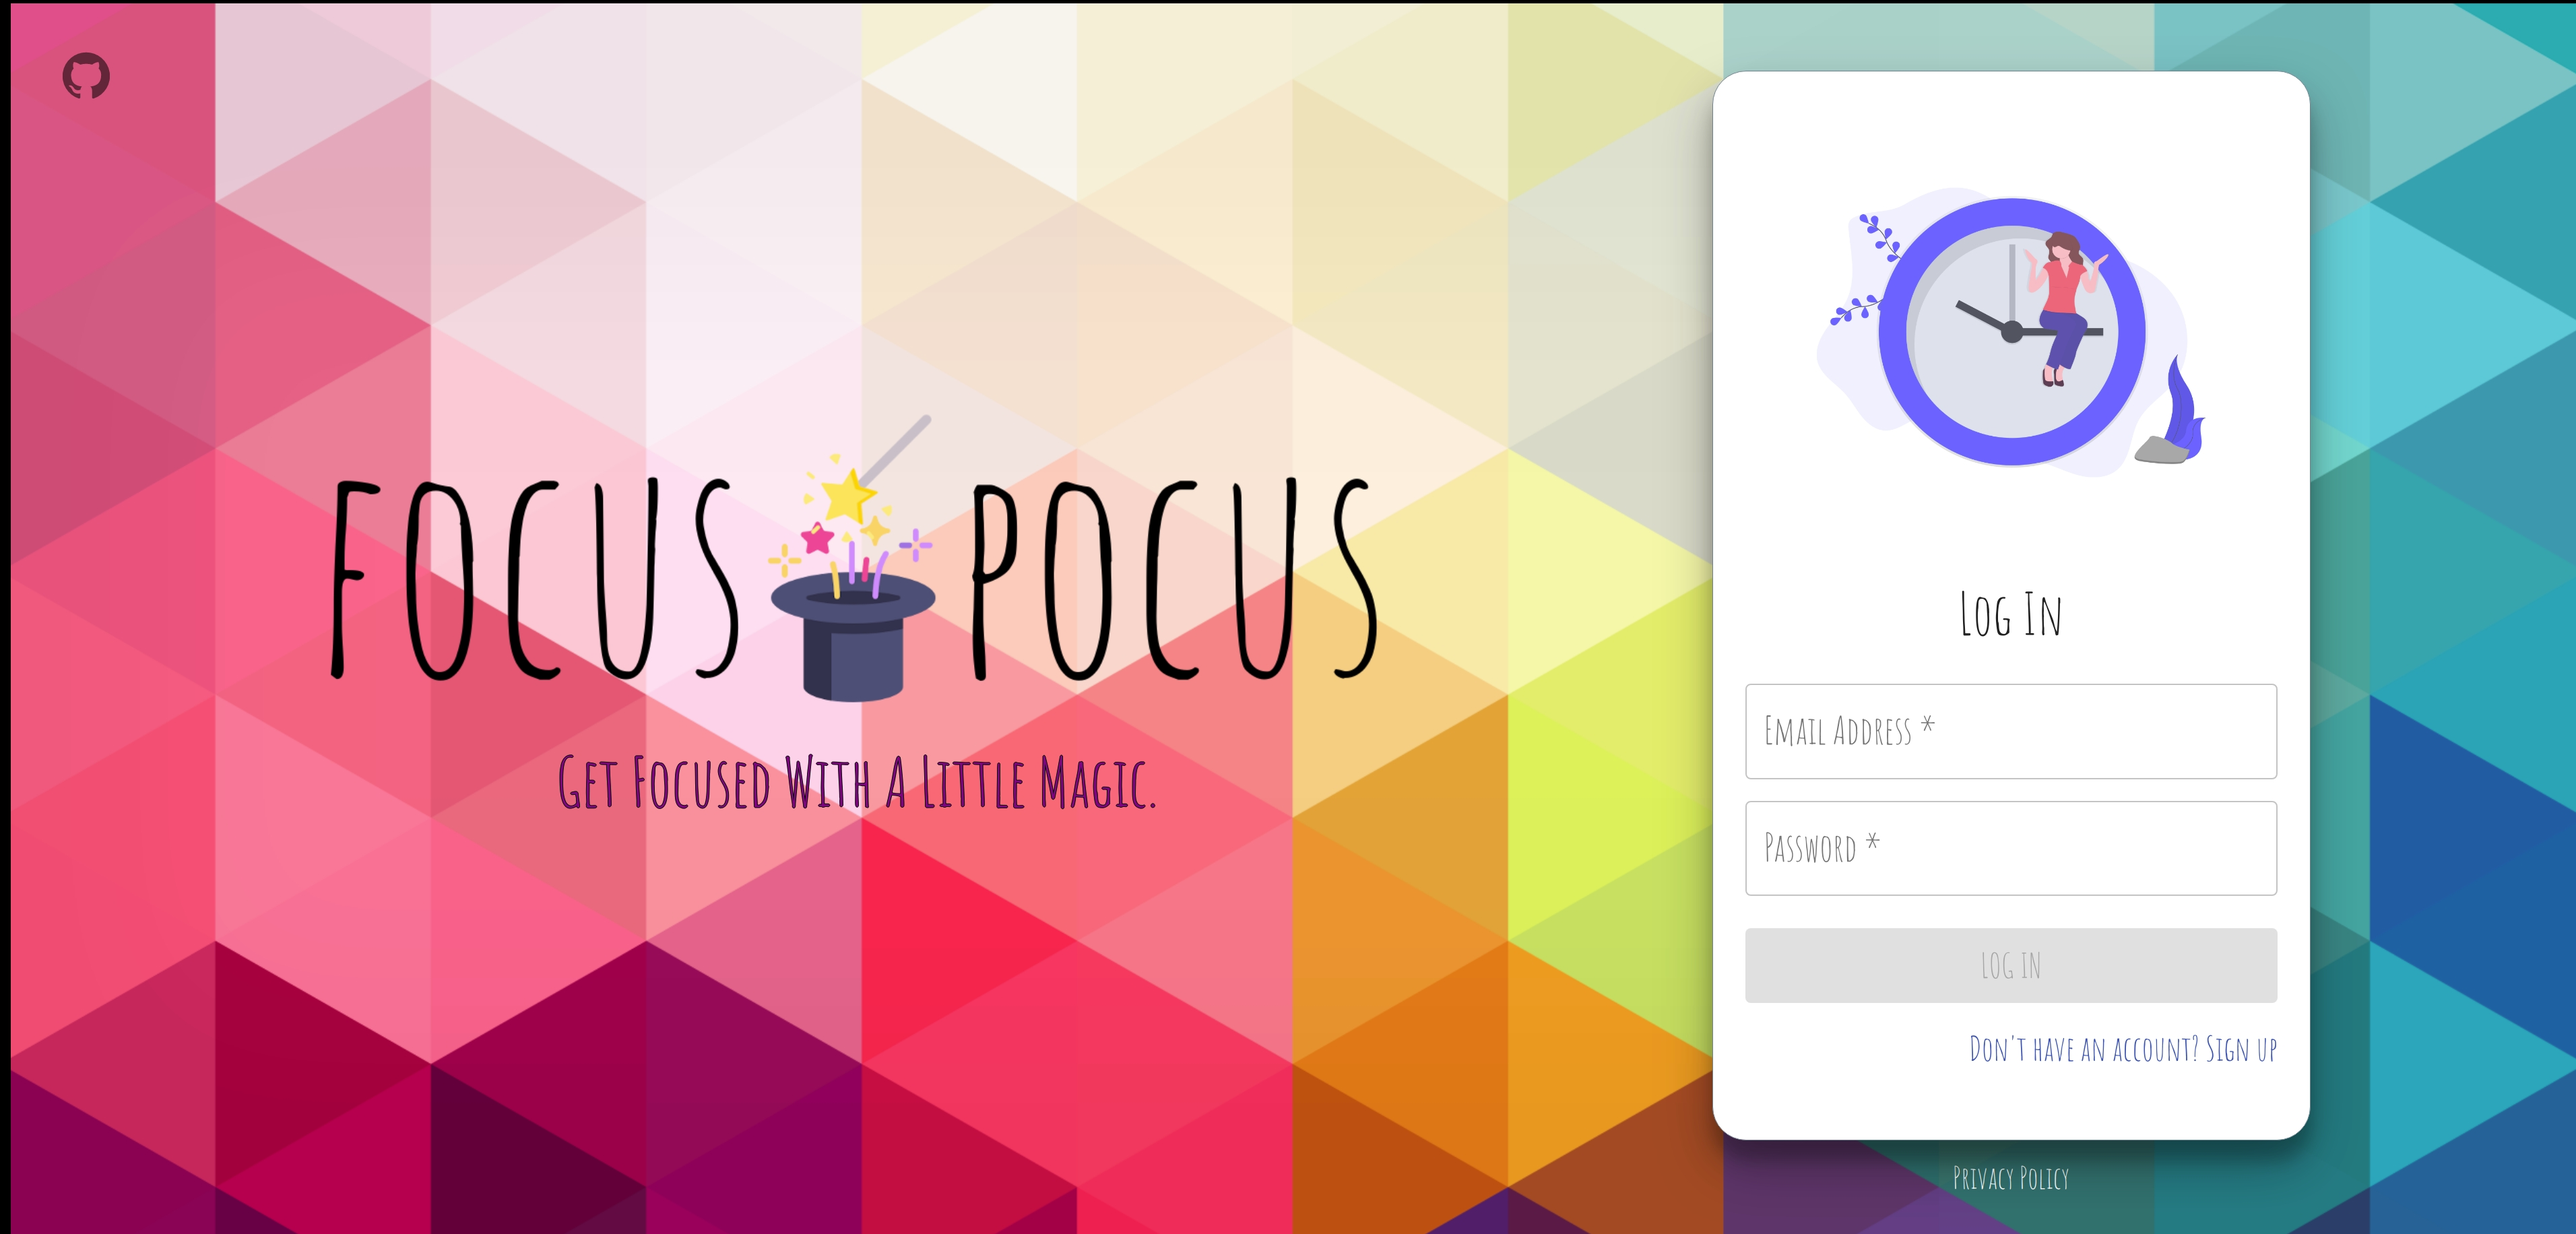
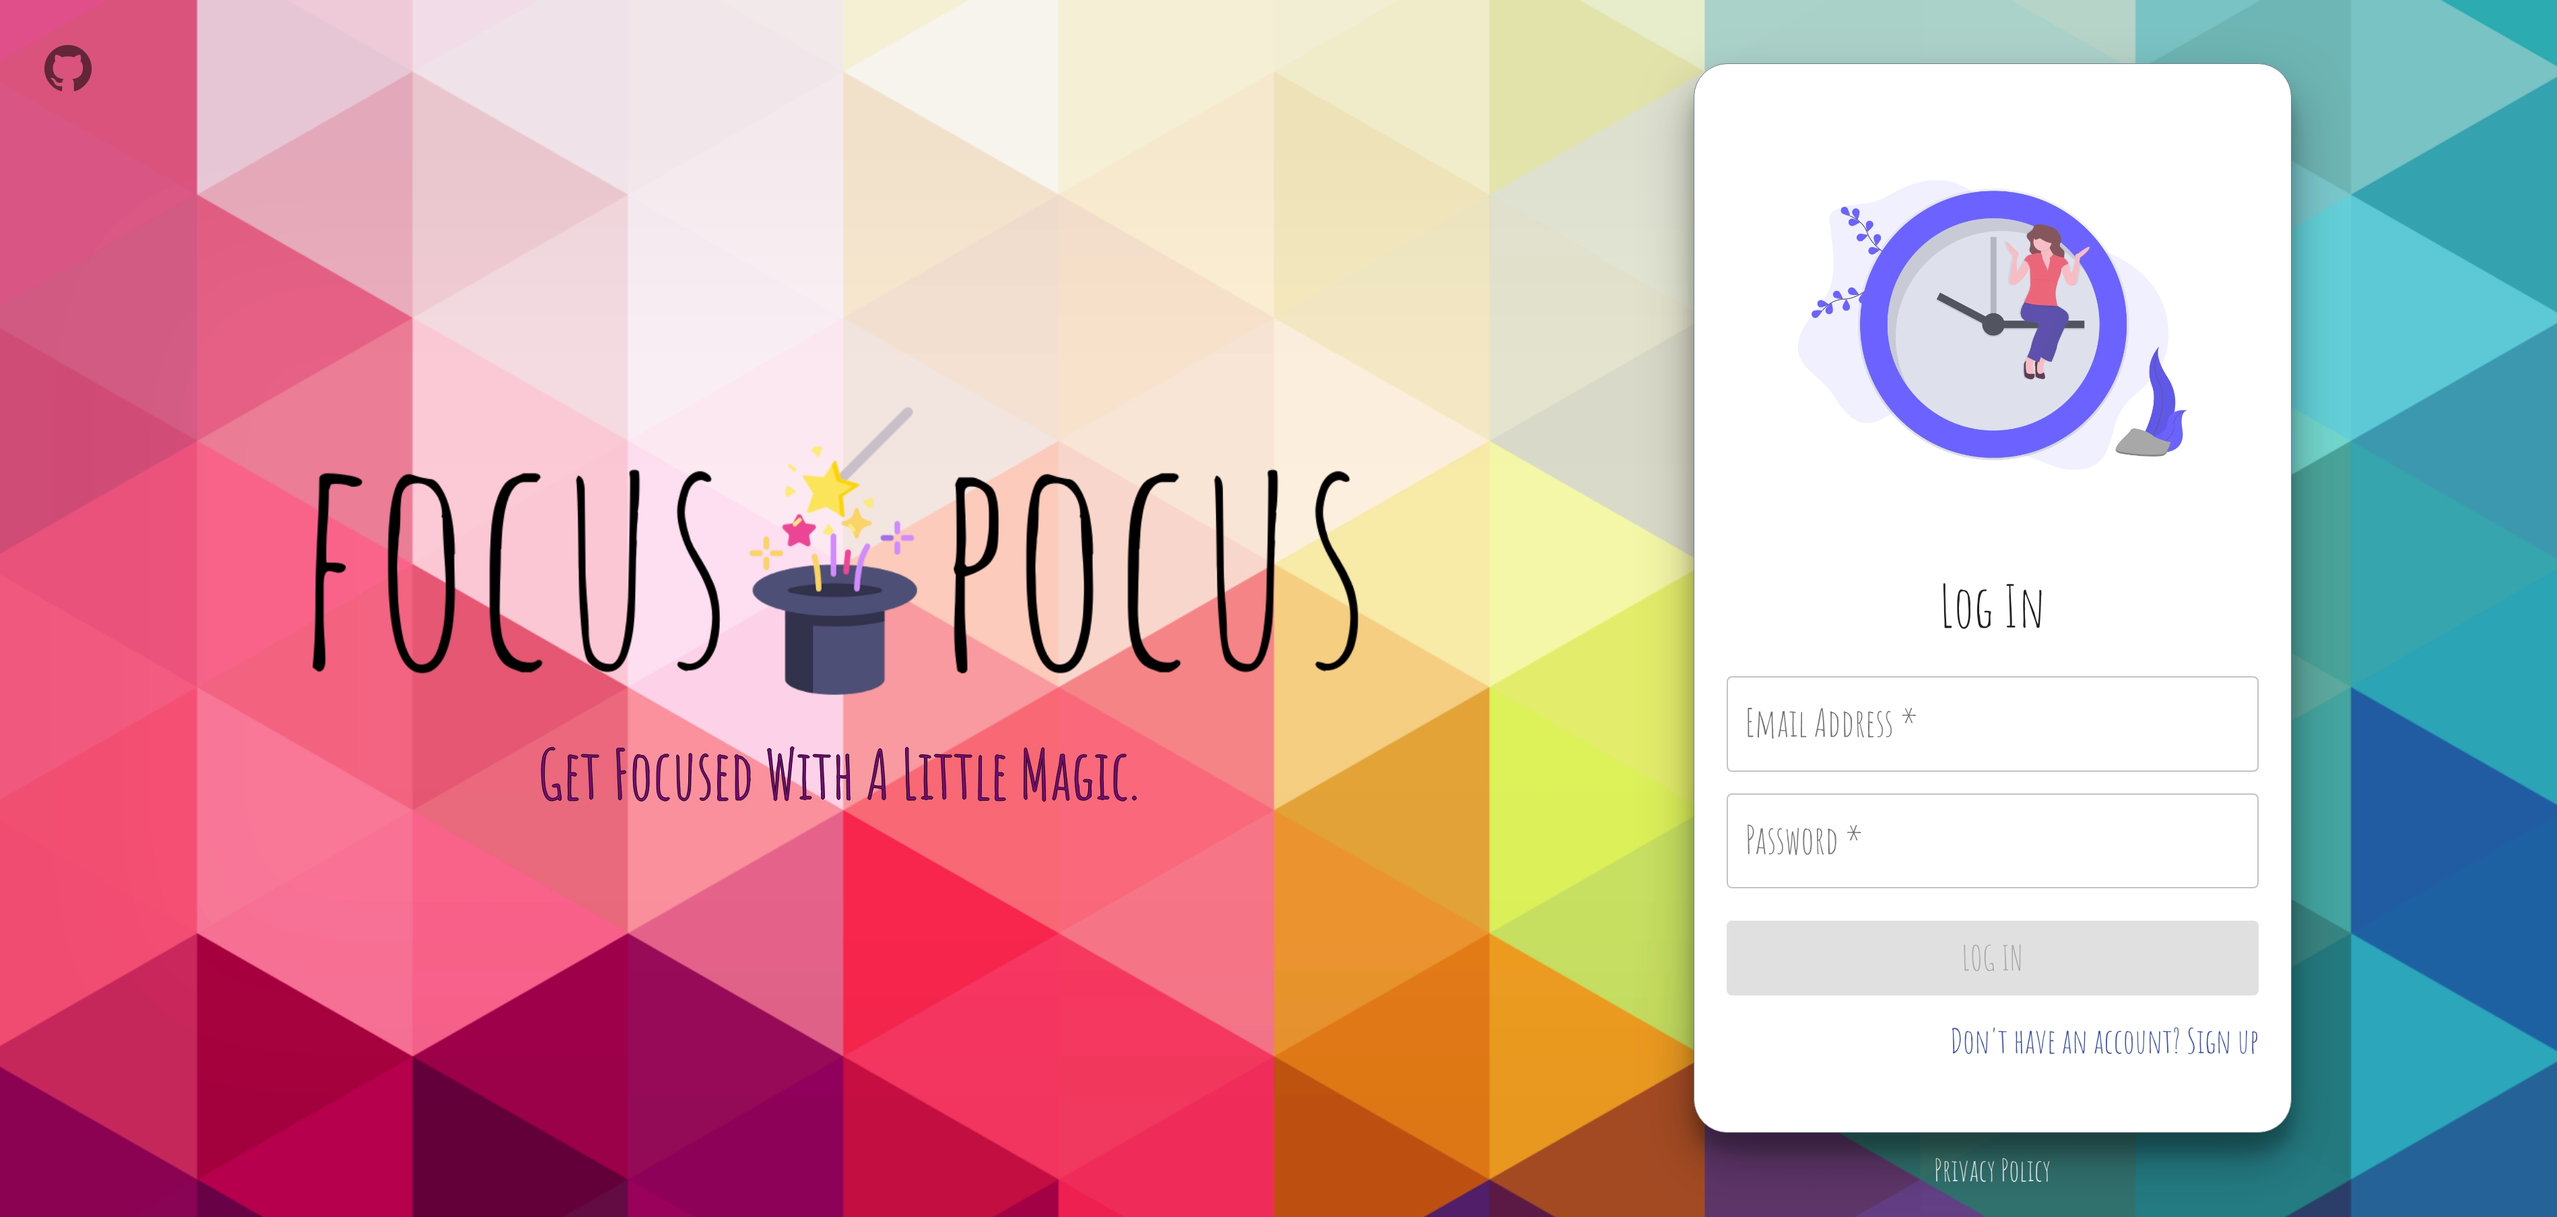
Fix cropping issue with landing & extension img

diff --git a/README.md b/README.md
@@ -26,7 +26,7 @@ https://youtu.be/8zMjdD9YEPw - Presented to the general audience as part of Ligh
 
 ## Stack
 Front-end: React.js, Material-UI, amCharts, React DnD
-
+s
 Back-end: Express, Node.js, Postgres, Socket.IO
 
 Chrome Extension: React.js, Chrome Extension API
